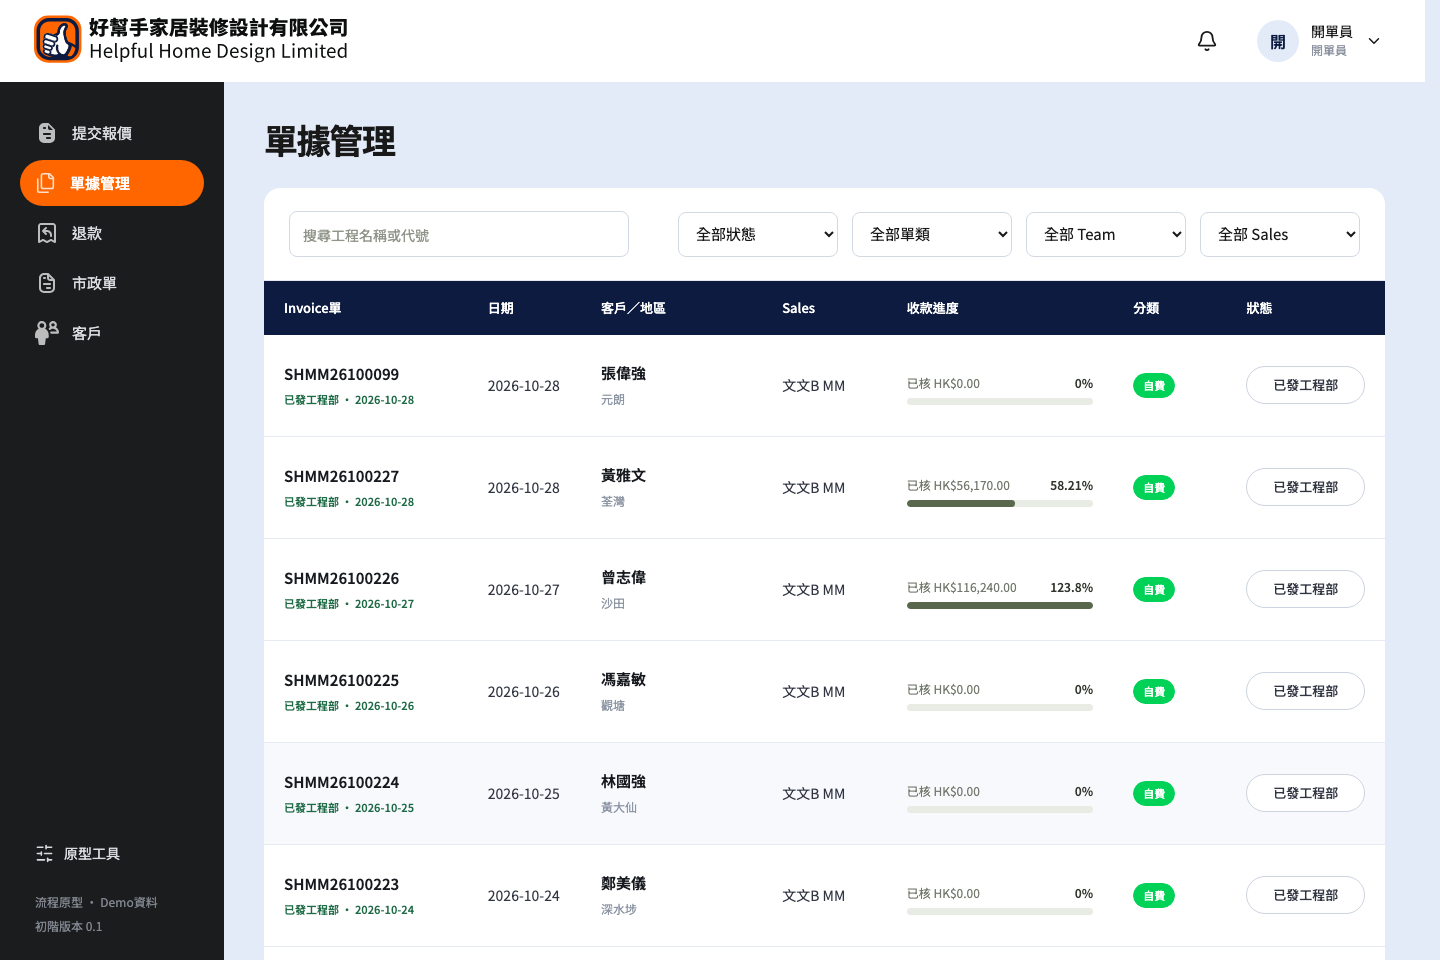
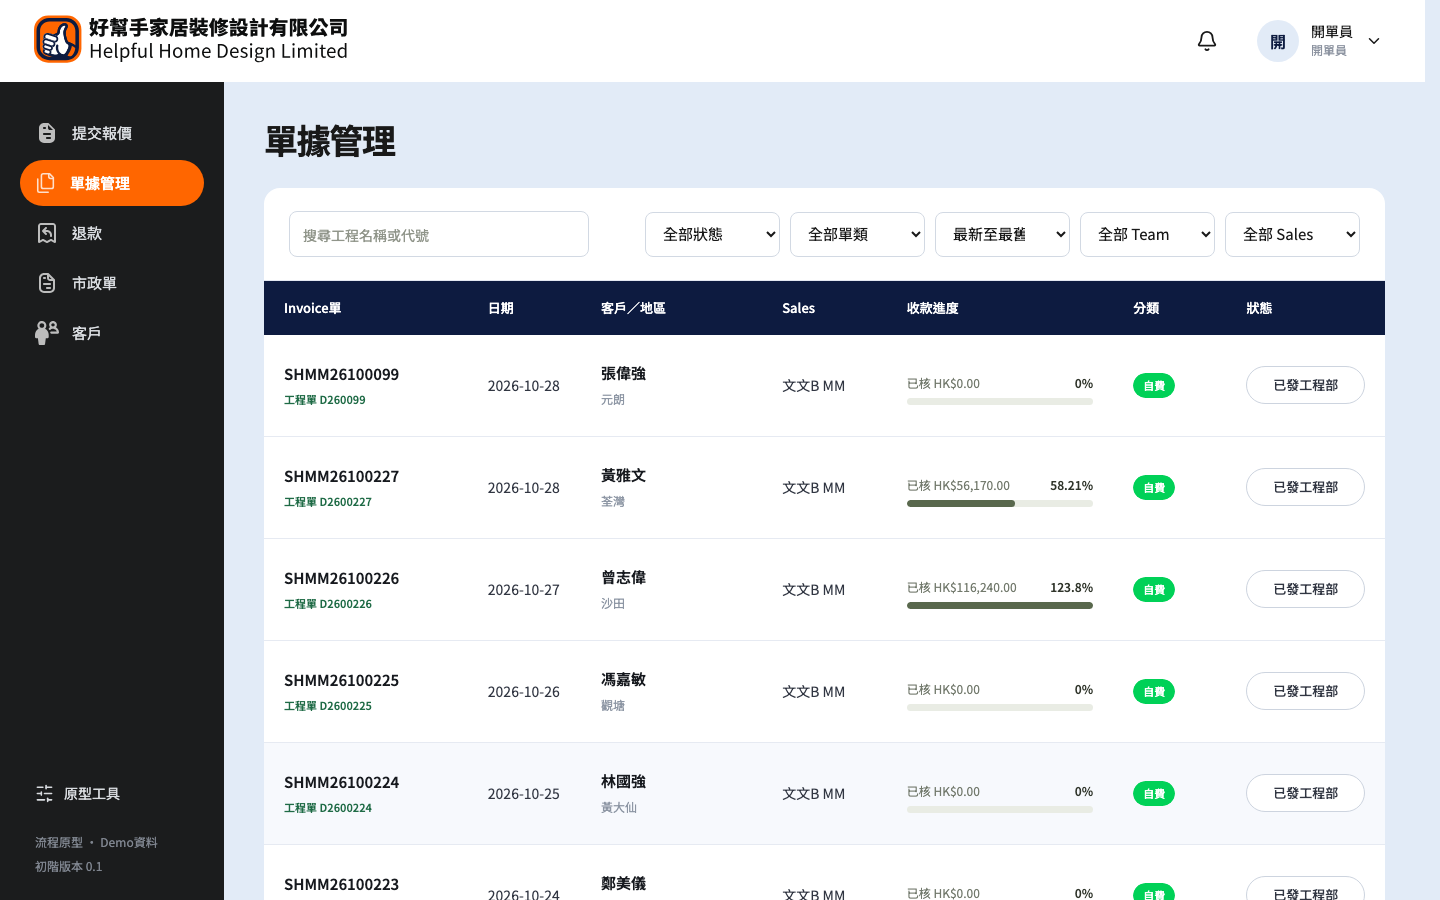
feat(invoices): add date sort and engineering order number

diff --git a/src/pages/Office.tsx b/src/pages/Office.tsx
@@ -530,6 +530,9 @@ export function Submissions() {
   const [orderFilter, setOrderFilter] = useState<
     "all" | "new" | "additional"
   >("all");
+  const [dateOrder, setDateOrder] = useState<"newest" | "oldest">(
+    "newest",
+  );
   const [activePayment, setActivePayment] = useState<Payment | null>(null);
   const parentSummaryOf = (quote: Quote) =>
     quote.parentQuoteId
@@ -813,6 +816,9 @@ export function Invoices() {
   const [orderFilter, setOrderFilter] = useState<
     "all" | "new" | "additional"
   >("all");
+  const [dateOrder, setDateOrder] = useState<"newest" | "oldest">(
+    "newest",
+  );
   const actors = engine.listActors();
   const salesActors = actors.filter((candidate) =>
     ["sales", "supervisor", "head"].includes(candidate.role),
@@ -871,10 +877,14 @@ export function Invoices() {
         )
       );
     })
-    .sort((a, b) => b.createdAt.localeCompare(a.createdAt));
+    .sort((a, b) =>
+      dateOrder === "newest"
+        ? b.createdAt.localeCompare(a.createdAt)
+        : a.createdAt.localeCompare(b.createdAt),
+    );
   const pager = usePagination(
     invoices,
-    `${search}|${statusFilter}|${orderFilter}|${teamFilter}|${salesFilter}`,
+    `${search}|${statusFilter}|${orderFilter}|${teamFilter}|${salesFilter}|${dateOrder}`,
   );
   return (
     <>
@@ -910,6 +920,18 @@ export function Invoices() {
               <option value="all">全部單類</option>
               <option value="new">新訂單</option>
               <option value="additional">後加單</option>
+            </select>
+            <select
+              aria-label="排序"
+              value={dateOrder}
+              onChange={(event) =>
+                setDateOrder(
+                  event.target.value as "newest" | "oldest",
+                )
+              }
+            >
+              <option value="newest">最新至最舊</option>
+              <option value="oldest">最舊至最新</option>
             </select>
             <select
               aria-label="Invoice Team"
@@ -981,7 +1003,7 @@ export function Invoices() {
                           )}
                           {order?.csReleasedAt && (
                             <small className="invoice-engineering-note">
-                              已發工程部 · {order.csReleasedAt.slice(0, 10)}
+                              工程單 {order.number}
                             </small>
                           )}
                         </div>

diff --git a/tests/e2e/invoice-list.spec.ts b/tests/e2e/invoice-list.spec.ts
@@ -16,6 +16,7 @@ test("單據管理顯示收款status bar、單類filter及已發工程部狀態"
   ).toBeVisible();
   const statusFilter = page.getByLabel("Invoice狀態", { exact: true });
   const orderFilter = page.getByLabel("單類", { exact: true });
+  const dateSort = page.getByLabel("排序", { exact: true });
   const teamFilter = page.getByLabel("Invoice Team", { exact: true });
   const salesFilter = page.getByLabel("Invoice Sales", { exact: true });
   await expect(statusFilter).toBeVisible();
@@ -24,6 +25,12 @@ test("單據管理顯示收款status bar、單類filter及已發工程部狀態"
     "全部單類",
     "新訂單",
     "後加單",
+  ]);
+  await expect(dateSort).toBeVisible();
+  await expect(dateSort).toHaveValue("newest");
+  await expect(dateSort.locator("option")).toHaveText([
+    "最新至最舊",
+    "最舊至最新",
   ]);
   await expect(teamFilter).toBeVisible();
   await expect(salesFilter).toBeVisible();
@@ -51,8 +58,14 @@ test("單據管理顯示收款status bar、單類filter及已發工程部狀態"
     .locator("tbody tr")
     .filter({ hasText: "SHMM26100001" });
   await expect(released.locator(".invoice-engineering-note")).toContainText(
-    "已發工程部",
+    "工程單 D2600001",
   );
+  const firstNewest = await page.locator("tbody tr").first().innerText();
+  await dateSort.selectOption("oldest");
+  await expect(dateSort).toHaveValue("oldest");
+  const firstOldest = await page.locator("tbody tr").first().innerText();
+  expect(firstOldest).not.toBe(firstNewest);
+  await dateSort.selectOption("newest");
   await orderFilter.selectOption("additional");
   await expect(
     page.locator("tbody tr").filter({ hasText: "SHMM26100001" }),

diff --git a/src/styles.css b/src/styles.css
@@ -11526,3 +11526,37 @@ textarea::placeholder {
   font-weight: 600;
   letter-spacing: 0;
 }
+.invoice-toolbar {
+  flex-wrap: nowrap;
+  gap: 10px;
+}
+.invoice-toolbar .search {
+  max-width: 300px;
+  min-width: 220px;
+  flex: 1 1 240px;
+}
+.invoice-toolbar .submission-filters {
+  flex: 0 0 auto;
+  gap: 10px;
+}
+.invoice-toolbar .submission-filters select {
+  flex: 0 0 135px;
+  width: 135px;
+}
+@media (max-width: 1180px) {
+  .invoice-toolbar {
+    flex-wrap: wrap;
+  }
+  .invoice-toolbar .search {
+    flex-basis: 100%;
+    max-width: none;
+  }
+  .invoice-toolbar .submission-filters {
+    width: 100%;
+    margin-left: 0;
+  }
+  .invoice-toolbar .submission-filters select {
+    flex: 1 1 0;
+    width: auto;
+  }
+}
